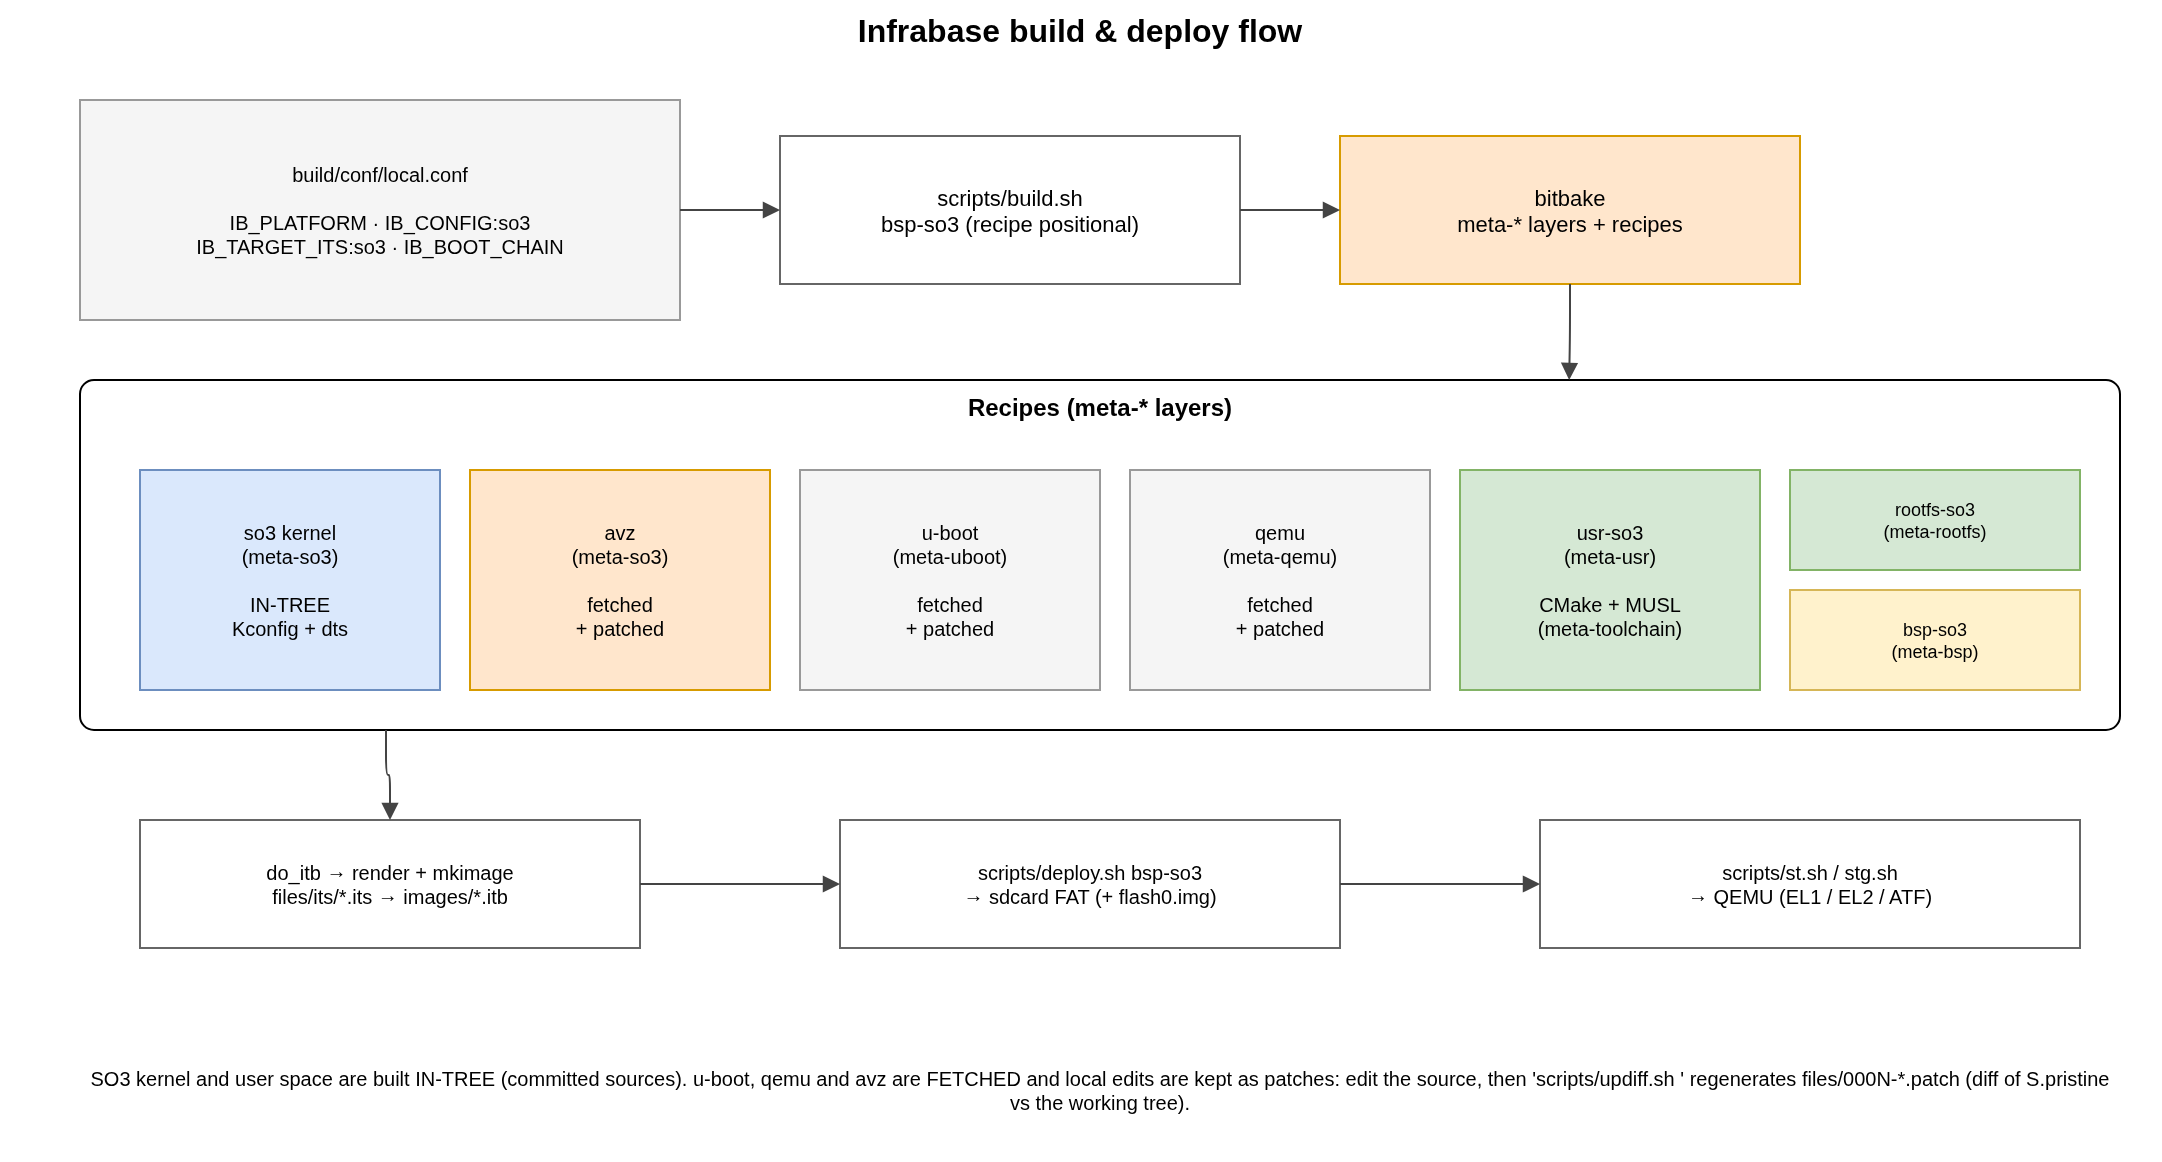
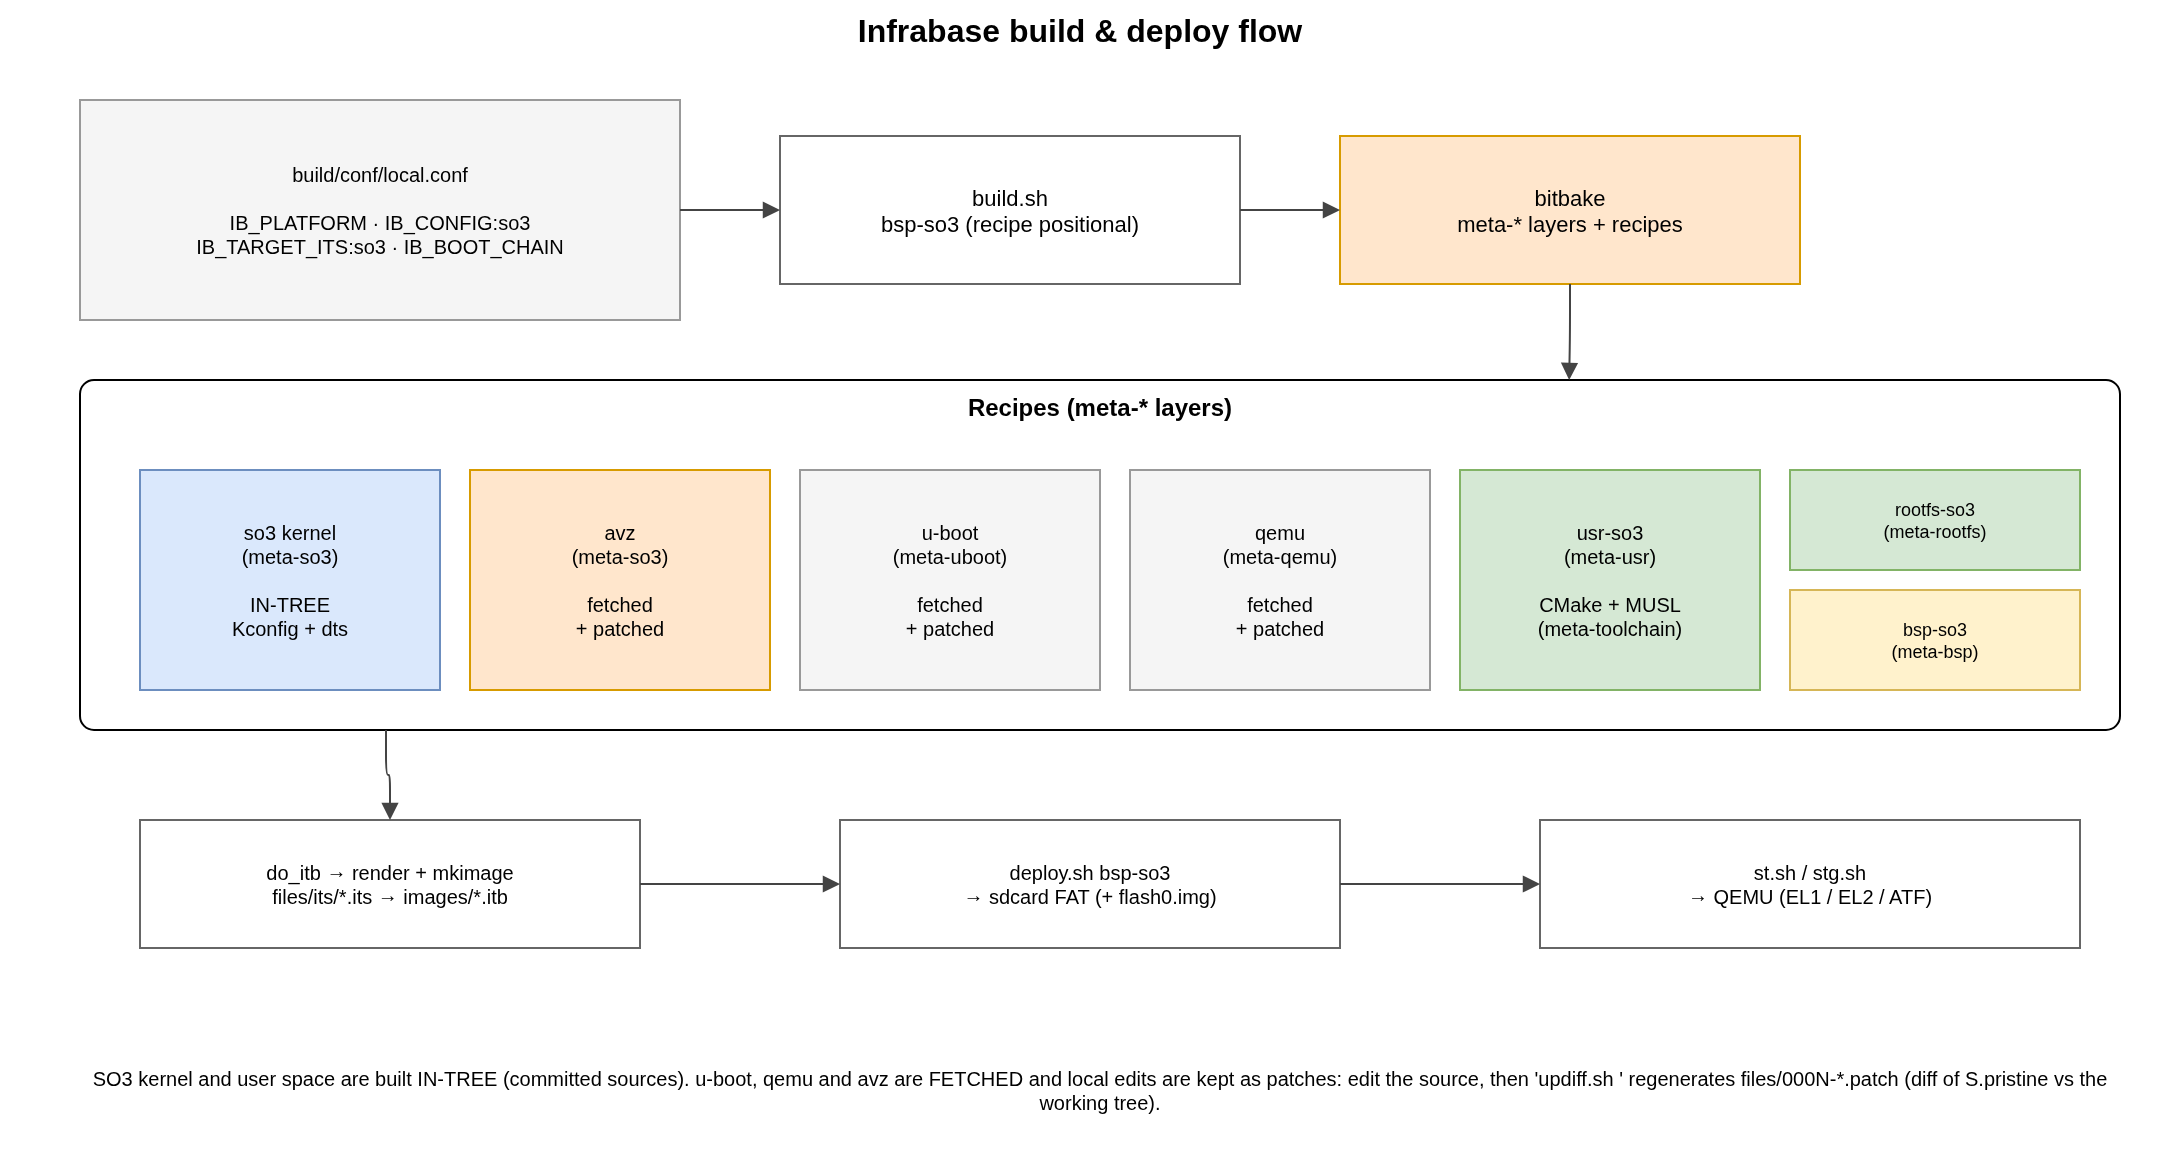
doc: refresh build/usage docs (paths, xref, version, wording, credits)
- Drop the scripts/ prefix from command examples: . env.sh puts scripts/
  on PATH, so build.sh / deploy.sh / st.sh / stg.sh / updiff.sh are invoked
  directly. The scripts/ directory references, the dir-tree listing and the
  docker/scripts/ helpers (not on PATH) are kept. The build-flow diagram
  (so3.drawio "build" page) and its exported so3_build.png are updated to match.
- Link "event channels" to the AVZ "Event channels" section via a new
  .. _event_channels: label, instead of landing at the page top.
- Bump the documented version to 6.2.0.
- Describe current behaviour rather than changes: drop "now" / "no longer" /
  "anymore" where the prose read like a changelog.
- Thank all contributors in the Acknowledgements (docs) and Credits (README)
  sections.

diff --git a/doc/source/conf.py b/doc/source/conf.py
@@ -67,10 +67,10 @@ copyright = u'2014-2026, HEIG-VD - REDS Institute'
 # built documents.
 #
 # The short X.Y version.
-version = u'6.1.0'
+version = u'6.2.0'
 
 # The full version, including alpha/beta/rc tags.
-release = u'6.1.0'
+release = u'6.2.0'
 
 
 # The language for content autogenerated by Sphinx. Refer to documentation

diff --git a/doc/source/user_guide.rst b/doc/source/user_guide.rst
@@ -62,20 +62,20 @@ the FIT image):
 
 .. code-block:: bash
 
-   ./scripts/build.sh bsp-so3
+   build.sh bsp-so3
 
 **4. Deploy** onto the virtual SD-card (this opens the sudo session and writes the
 boot partition):
 
 .. code-block:: bash
 
-   ./scripts/deploy.sh bsp-so3
+   deploy.sh bsp-so3
 
 **5. Run:**
 
 .. code-block:: bash
 
-   ./scripts/st.sh
+   st.sh
 
 You should land at the ``so3%`` prompt.
 
@@ -83,8 +83,8 @@ You should land at the ``so3%`` prompt.
 
    After editing only the kernel, rebuild and redeploy it without a full rebuild::
 
-      ./scripts/build.sh -x so3
-      ./scripts/deploy.sh bsp-so3
+      build.sh -x so3
+      deploy.sh bsp-so3
 
    The ``deploy.sh bsp-so3`` step is required because the in-tree kernel binary
    is not tracked by bitbake (see :ref:`build_system`).
@@ -98,10 +98,10 @@ Launch scripts
 
    * - Script
      - Use
-   * - ``scripts/st.sh``
+   * - ``st.sh``
      - **headless** run (``-display none``) — serial console only. The default for
        non-graphical work and CI.
-   * - ``scripts/stg.sh``
+   * - ``stg.sh``
      - **graphical** run — a GTK window for the PL111 framebuffer (LVGL, ``fb_test``).
        See :ref:`display_input`.
 
@@ -137,15 +137,15 @@ To run SO3 as a **guest** on top of AVZ (``CONFIG_SOO=n``, no capsules):
 
 .. code-block:: bash
 
-   ./scripts/build.sh -x avz
-   ./scripts/build.sh bsp-so3
-   ./scripts/deploy.sh bsp-so3
+   build.sh -x avz
+   build.sh bsp-so3
+   deploy.sh bsp-so3
 
 **3.** Run — ``st.sh`` enables EL2 automatically because the ITS is an AVZ image:
 
 .. code-block:: bash
 
-   ./scripts/st.sh
+   st.sh
 
 .. note::
 
@@ -167,8 +167,8 @@ relevant ``CMakeLists.txt``. Rebuild and redeploy the user space:
 
 .. code-block:: bash
 
-   ./scripts/build.sh -x usr-so3
-   ./scripts/deploy.sh bsp-so3      # repack the rootfs into the FIT image + write the boot media
+   build.sh -x usr-so3
+   deploy.sh bsp-so3      # repack the rootfs into the FIT image + write the boot media
 
 See :ref:`user_space` for the user-space build details and the bundled
 applications.

diff --git a/doc/source/user_space.rst b/doc/source/user_space.rst
@@ -28,9 +28,9 @@ user space with:
 
 .. code-block:: bash
 
-   ./scripts/build.sh -x usr-so3      # configure + cross-compile (CMake + MUSL)
-   ./scripts/deploy.sh -x usr-so3     # repopulate so3/rootfs/rootfs.fat with the apps
-   ./scripts/deploy.sh bsp-so3     # repack rootfs into the FIT image + write the boot media
+   build.sh -x usr-so3      # configure + cross-compile (CMake + MUSL)
+   deploy.sh -x usr-so3     # repopulate so3/rootfs/rootfs.fat with the apps
+   deploy.sh bsp-so3     # repack rootfs into the FIT image + write the boot media
 
 The recipe configures and builds under ``so3/usr/build/`` and gathers the
 deployable, statically-linked ``*.elf`` binaries for the root filesystem. Adding
@@ -137,7 +137,7 @@ line reading.
 
 .. note::
 
-   Each process now has a **current working directory** (``pcb->cwd``, default
+   Each process has a **current working directory** (``pcb->cwd``, default
    ``/``, inherited across ``fork()`` and preserved across ``execve()``). The
    ``chdir`` / ``getcwd`` syscalls back the ``cd`` / ``pwd`` builtins, and the
    VFS resolves relative paths (and ``.`` / ``..``) against the cwd before
@@ -151,8 +151,8 @@ Root filesystem
 The applications are delivered through a root filesystem. In the default
 (ramfs) configuration this is a FAT image, ``so3/rootfs/rootfs.fat``, built by the
 ``rootfs-so3`` recipe (``meta-rootfs``) from the freshly built user binaries.
-``./scripts/deploy.sh bsp-so3`` packs it into the FIT image and writes it to
-the SD-card (:ref:`user_guide`); ``./scripts/build.sh bsp-so3`` does the whole
+``deploy.sh bsp-so3`` packs it into the FIT image and writes it to
+the SD-card (:ref:`user_guide`); ``build.sh bsp-so3`` does the whole
 build + image in one step. The FAT image can be inspected on the host (e.g. with
 ``mtools``) — useful when debugging what actually ended up on the target.
 

diff --git a/doc/source/build_system.rst b/doc/source/build_system.rst
@@ -173,7 +173,7 @@ boots through ARM-TF (EL3 → EL2), and ``full`` additionally loads OP-TEE.
 The build & deploy scripts
 ==========================
 
-``scripts/build.sh`` runs bitbake to *build* artefacts:
+``build.sh`` runs bitbake to *build* artefacts:
 
 .. flat-table::
    :header-rows: 1
@@ -193,7 +193,7 @@ The build & deploy scripts
    * - ``-l`` / ``-v``
      - **list** all recipes / **verbose** bitbake output.
 
-``scripts/deploy.sh`` then *writes the boot media* (and opens the ``sudo -n``
+``deploy.sh`` then *writes the boot media* (and opens the ``sudo -n``
 session the privileged tasks need): ``deploy.sh <recipe>`` (``-x`` optional)
 deploys it — a BSP writes the whole image (rootfs → p2 + FIT/ITB → p1), a
 component (e.g. ``usr-so3``) deploys just its part. ``-l`` / ``-v`` list /
@@ -268,7 +268,7 @@ component trees through ``${IB_*_PATH}`` placeholders. The ``do_itb`` task
 (``so3/images/`` or ``linux/images/``) — expanding ``${IB_SO3_PATH}``,
 ``${IB_AVZ_PATH}``, ``${IB_LINUX_PATH}`` and ``${IB_ROOTFS_PATH}`` to absolute
 paths — then assembles the ``.itb`` there with ``mkimage`` (there is no committed
-``target/`` tree anymore):
+``target/`` tree):
 
 .. flat-table::
    :header-rows: 1
@@ -347,7 +347,7 @@ hand:
 
 #. Edit the working tree directly (e.g. ``qemu/hw/arm/virt.c``).
 #. Build to test (``build.sh -x qemu``).
-#. Regenerate the patches: ``scripts/updiff.sh qemu``.
+#. Regenerate the patches: ``updiff.sh qemu``.
 
 ``updiff`` (``patch.bbclass``) diffs the pristine upstream snapshot
 (``${S}.pristine``, taken right after fetch) against the working tree and writes

diff --git a/doc/source/debugging.rst b/doc/source/debugging.rst
@@ -18,9 +18,9 @@ ELF to get source-level debugging while the target runs the matching ``.bin``.
 Attaching GDB to QEMU
 =====================
 
-The launch script already exposes a GDB stub: ``scripts/st.sh`` starts QEMU with
+The launch script already exposes a GDB stub: ``st.sh`` starts QEMU with
 ``-gdb tcp::1234``. To make QEMU **wait** for the debugger before executing the
-first instruction, pass ``-S`` through to QEMU (``./scripts/st.sh -S``), or invoke
+first instruction, pass ``-S`` through to QEMU (``st.sh -S``), or invoke
 the patched emulator directly. A minimal headless invocation looks like:
 
 .. code-block:: bash
@@ -99,7 +99,7 @@ when EL2-only code runs at EL1).
 Debugging AVZ
 =============
 
-For the hypervisor, run ``scripts/st.sh`` with an AVZ ITS selected (it enables
+For the hypervisor, run ``st.sh`` with an AVZ ITS selected (it enables
 EL2 automatically) and pass ``-S`` to wait for the debugger. Load symbols from the
 hypervisor ELF (``avz/so3``) for the EL2 code and from the SO3 guest ELF
 (``so3/so3/so3``) for the EL1 guest. The AVZ console trace (the *Loading Guest

diff --git a/doc/source/capsules.rst b/doc/source/capsules.rst
@@ -11,10 +11,10 @@ split (frontend/backend) drivers.
 .. note::
 
    *SO3 Capsule* / *S3C* is the current name and acronym for the concept that
-   older code and papers called a *Mobile Entity* (ME). The source tree now uses
+   older code and papers called a *Mobile Entity* (ME). The source tree uses
    the **S3C** acronym in identifiers (``S3C_desc_t``, ``S3C_state_t``,
    ``S3C_domID``, ``MAX_S3C_DOMAINS`` …) and *capsule* in prose. The legacy
-   ``ME`` spelling no longer appears in the code.
+   ``ME`` spelling does not appear in the code.
 
 The agency: Linux + the SOO framework
 =====================================
@@ -64,7 +64,7 @@ Split (frontend/backend) drivers
 
 Every virtual device a capsule uses is a **split driver**: a **frontend** in the
 capsule talks to a **backend** in the Linux agency through a shared memory ring
-and an event channel (set up with grant tables and :ref:`event channels <avz>`).
+and an event channel (set up with grant tables and :ref:`event channels <event_channels>`).
 
 .. figure:: img/so3_capsule.png
    :width: 100%

diff --git a/doc/source/display_input.rst b/doc/source/display_input.rst
@@ -146,7 +146,7 @@ relative PL050 mouse (``kmi1.c``) is kept in the tree but its dts node is
 The host GTK window (``stg.sh``)
 ================================
 
-The graphical launcher ``scripts/stg.sh`` starts QEMU with the **GTK** display
+The graphical launcher ``stg.sh`` starts QEMU with the **GTK** display
 backend (``-display gtk,zoom-to-fit=off``):
 
 * **GTK, not SDL** — the SDL backend does not present the PL111 console surface
@@ -160,7 +160,7 @@ backend (``-display gtk,zoom-to-fit=off``):
   gives a uniform pointer-to-surface mapping, so the cursors coincide on every
   monitor. It is harmless on a native X11 session.
 
-``scripts/st.sh`` is the headless sibling (``-display none``): no window, console
+``st.sh`` is the headless sibling (``-display none``): no window, console
 only, used for non-graphical work and CI.
 
 .. _console_sigint:

diff --git a/doc/source/micropython.rst b/doc/source/micropython.rst
@@ -22,7 +22,7 @@ Using Micropython in the emulated environment
    Micropython currently works only for the virt64 platform
    
 Micropython is built along with the rest of the user space (the ``usr-so3``
-recipe — ``./scripts/build.sh -x usr-so3``; see :ref:`user_space`). Its CMake
+recipe — ``build.sh -x usr-so3``; see :ref:`user_space`). Its CMake
 rules drive the Makefile in ``so3/usr/src/micropython/ports/soo`` and the
 resulting ``firmware.elf`` is renamed ``uPython.elf`` and gathered with the other
 applications for the root filesystem.

diff --git a/doc/source/index.rst b/doc/source/index.rst
@@ -111,4 +111,7 @@ We would like to thank our sponsors for their generous support in funding the
 development of the SO3 ecosystem, especially `HEIG-VD <http://www.heig-vd.ch>`__
 and the `Hasler Foundation <https://haslerstiftung.ch/en/welcome-to-the-hasler-foundation>`__.
 
+We are also grateful to all the contributors — developers, students, researchers
+and community members alike — whose code, ideas and feedback have shaped SO3.
+
 .. _SOO_mail: info@soo.tech

diff --git a/doc/source/introduction.rst b/doc/source/introduction.rst
@@ -49,9 +49,9 @@ SO3 capsule
 .. note::
 
    *SO3 Capsule*, abbreviated **S3C**, is the current name and acronym for what
-   older code and papers called a *Mobile Entity* (ME). The code base now uses
+   older code and papers called a *Mobile Entity* (ME). The code base uses
    the ``S3C`` acronym in identifiers and *capsule* in prose; the ``ME`` spelling
-   no longer appears.
+   does not appear.
 
 Approach and philosophy
 =======================

diff --git a/README.md b/README.md
@@ -71,6 +71,9 @@ development of the SO3 ecosystem, in particular
 [HEIG-VD](https://www.heig-vd.ch) and the
 [Hasler Foundation](https://haslerstiftung.ch/en/welcome-to-the-hasler-foundation).
 
+We are also grateful to all the contributors — developers, students, researchers
+and community members alike — whose code, ideas and feedback have shaped SO3.
+
 ## License
 
 SO3 is released under the [GNU General Public License v2](LICENSE).

diff --git a/doc/source/lvgl.rst b/doc/source/lvgl.rst
@@ -88,7 +88,7 @@ real window):
 
 .. code-block:: bash
 
-   ./scripts/stg.sh
+   stg.sh
 
 QEMU opens a GTK window that shows the PL111 framebuffer; launch an LVGL
 application from the ``so3%`` prompt to draw into it, for example::
